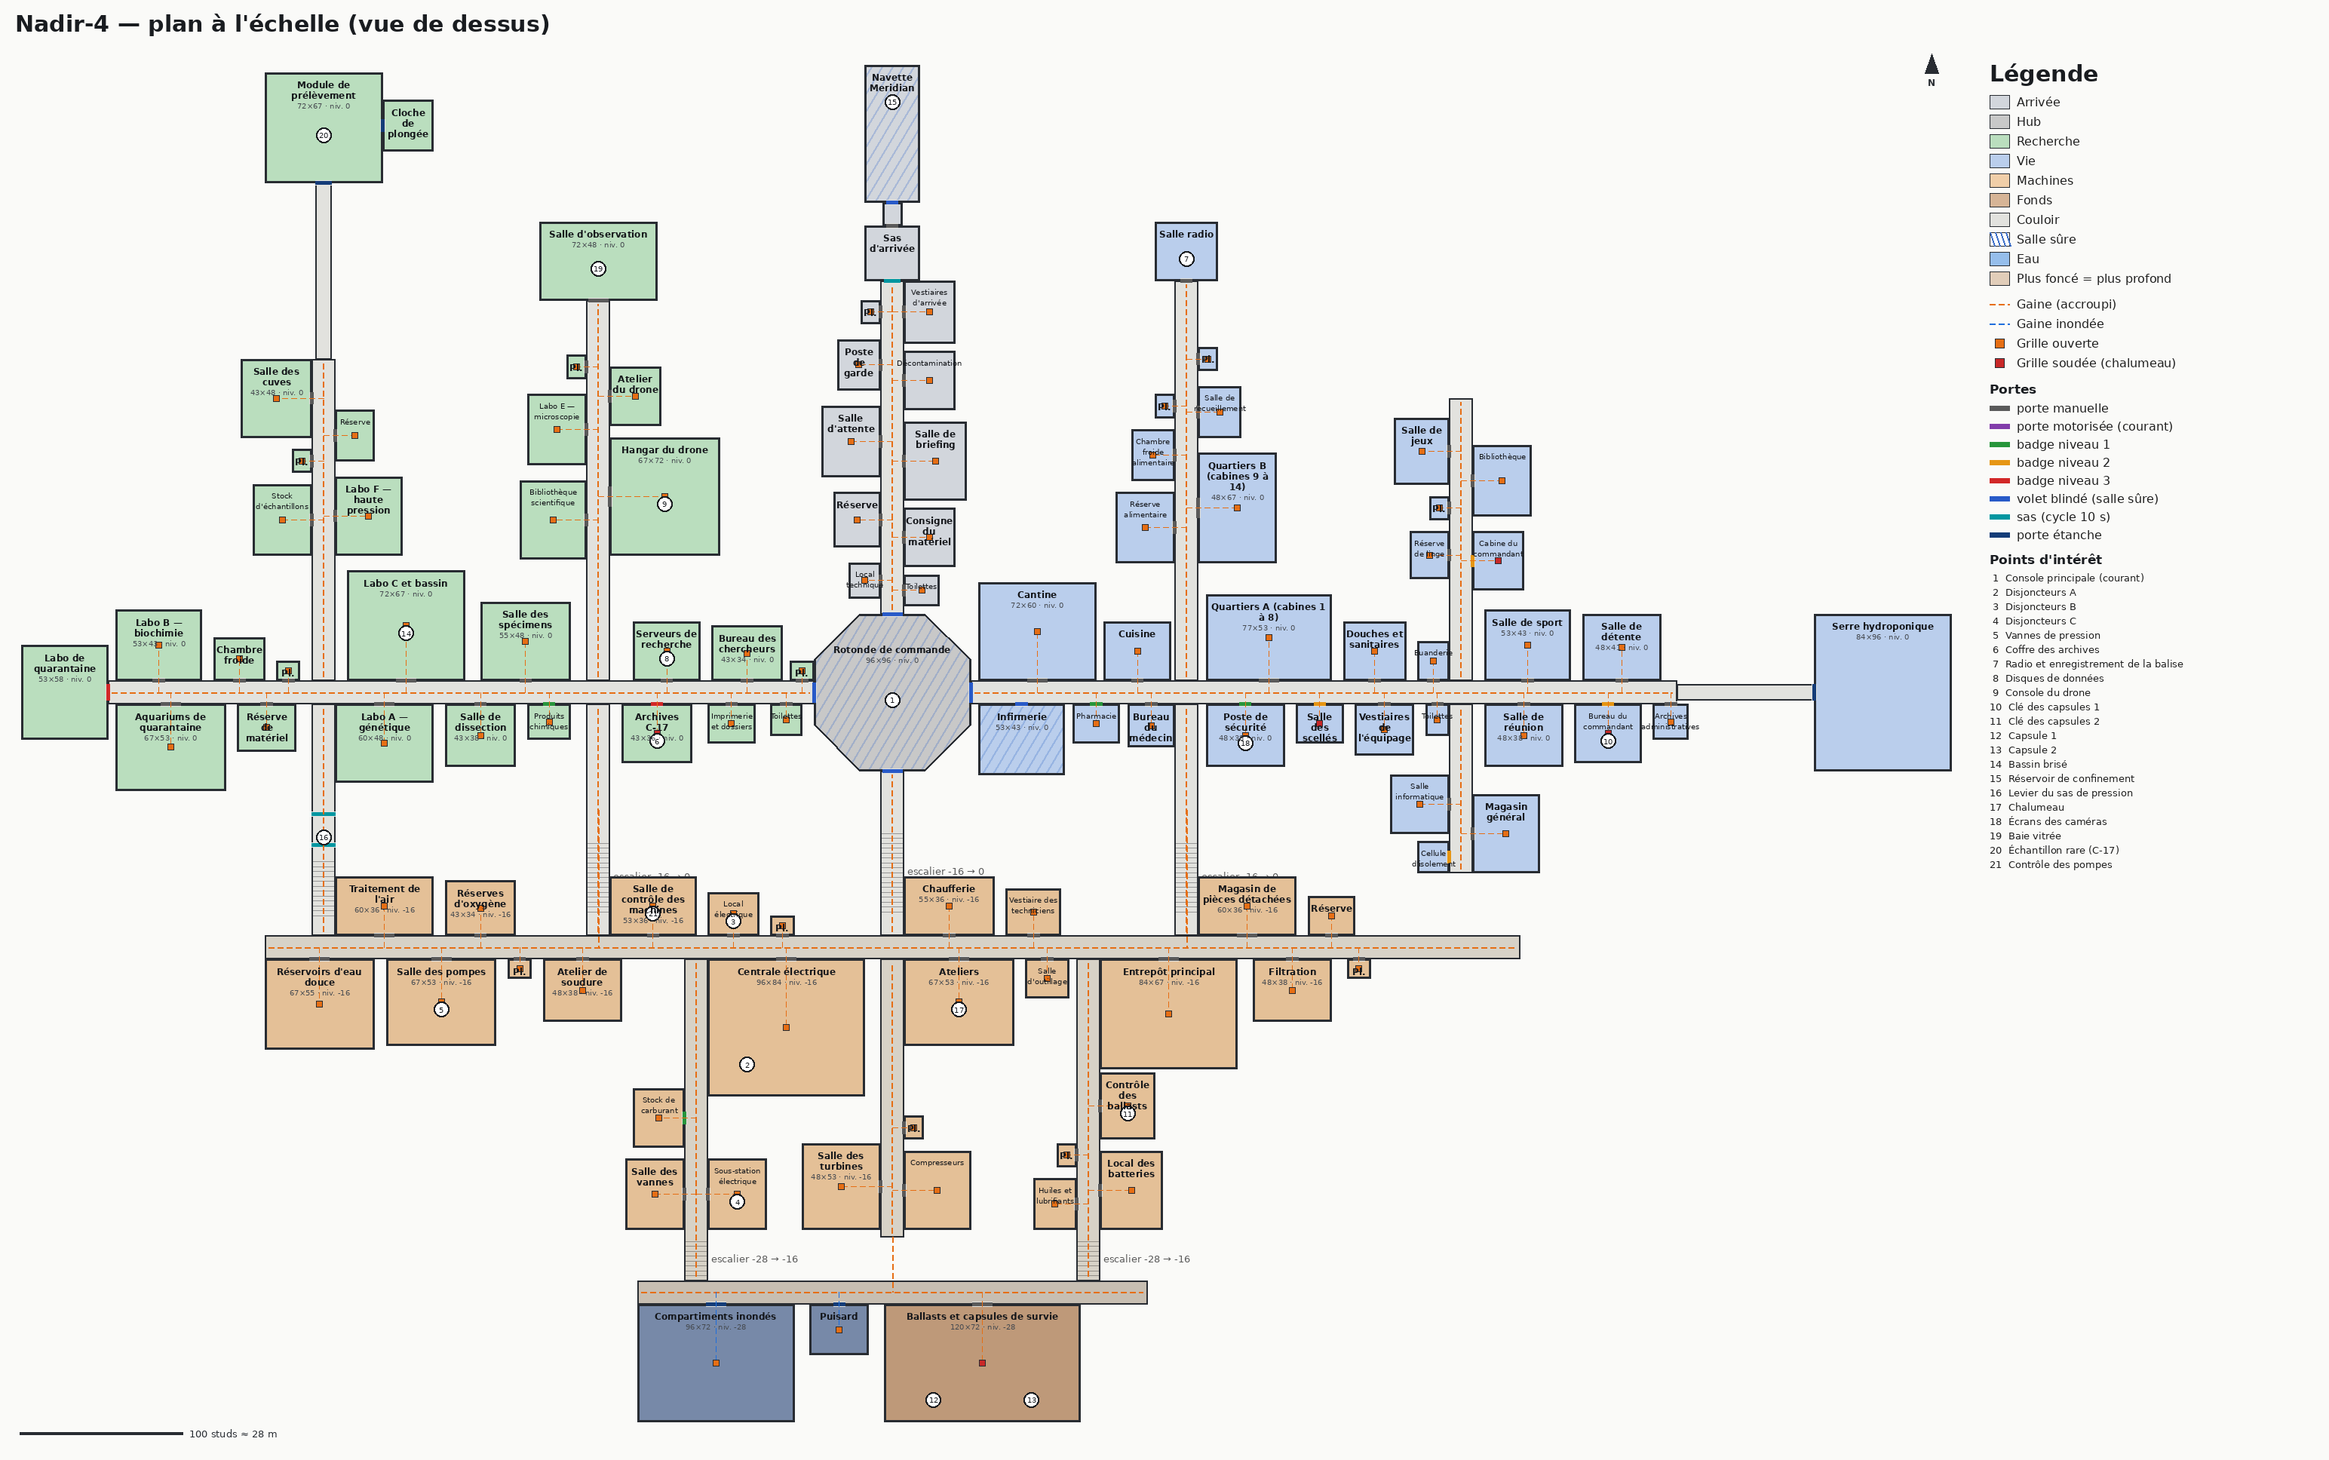
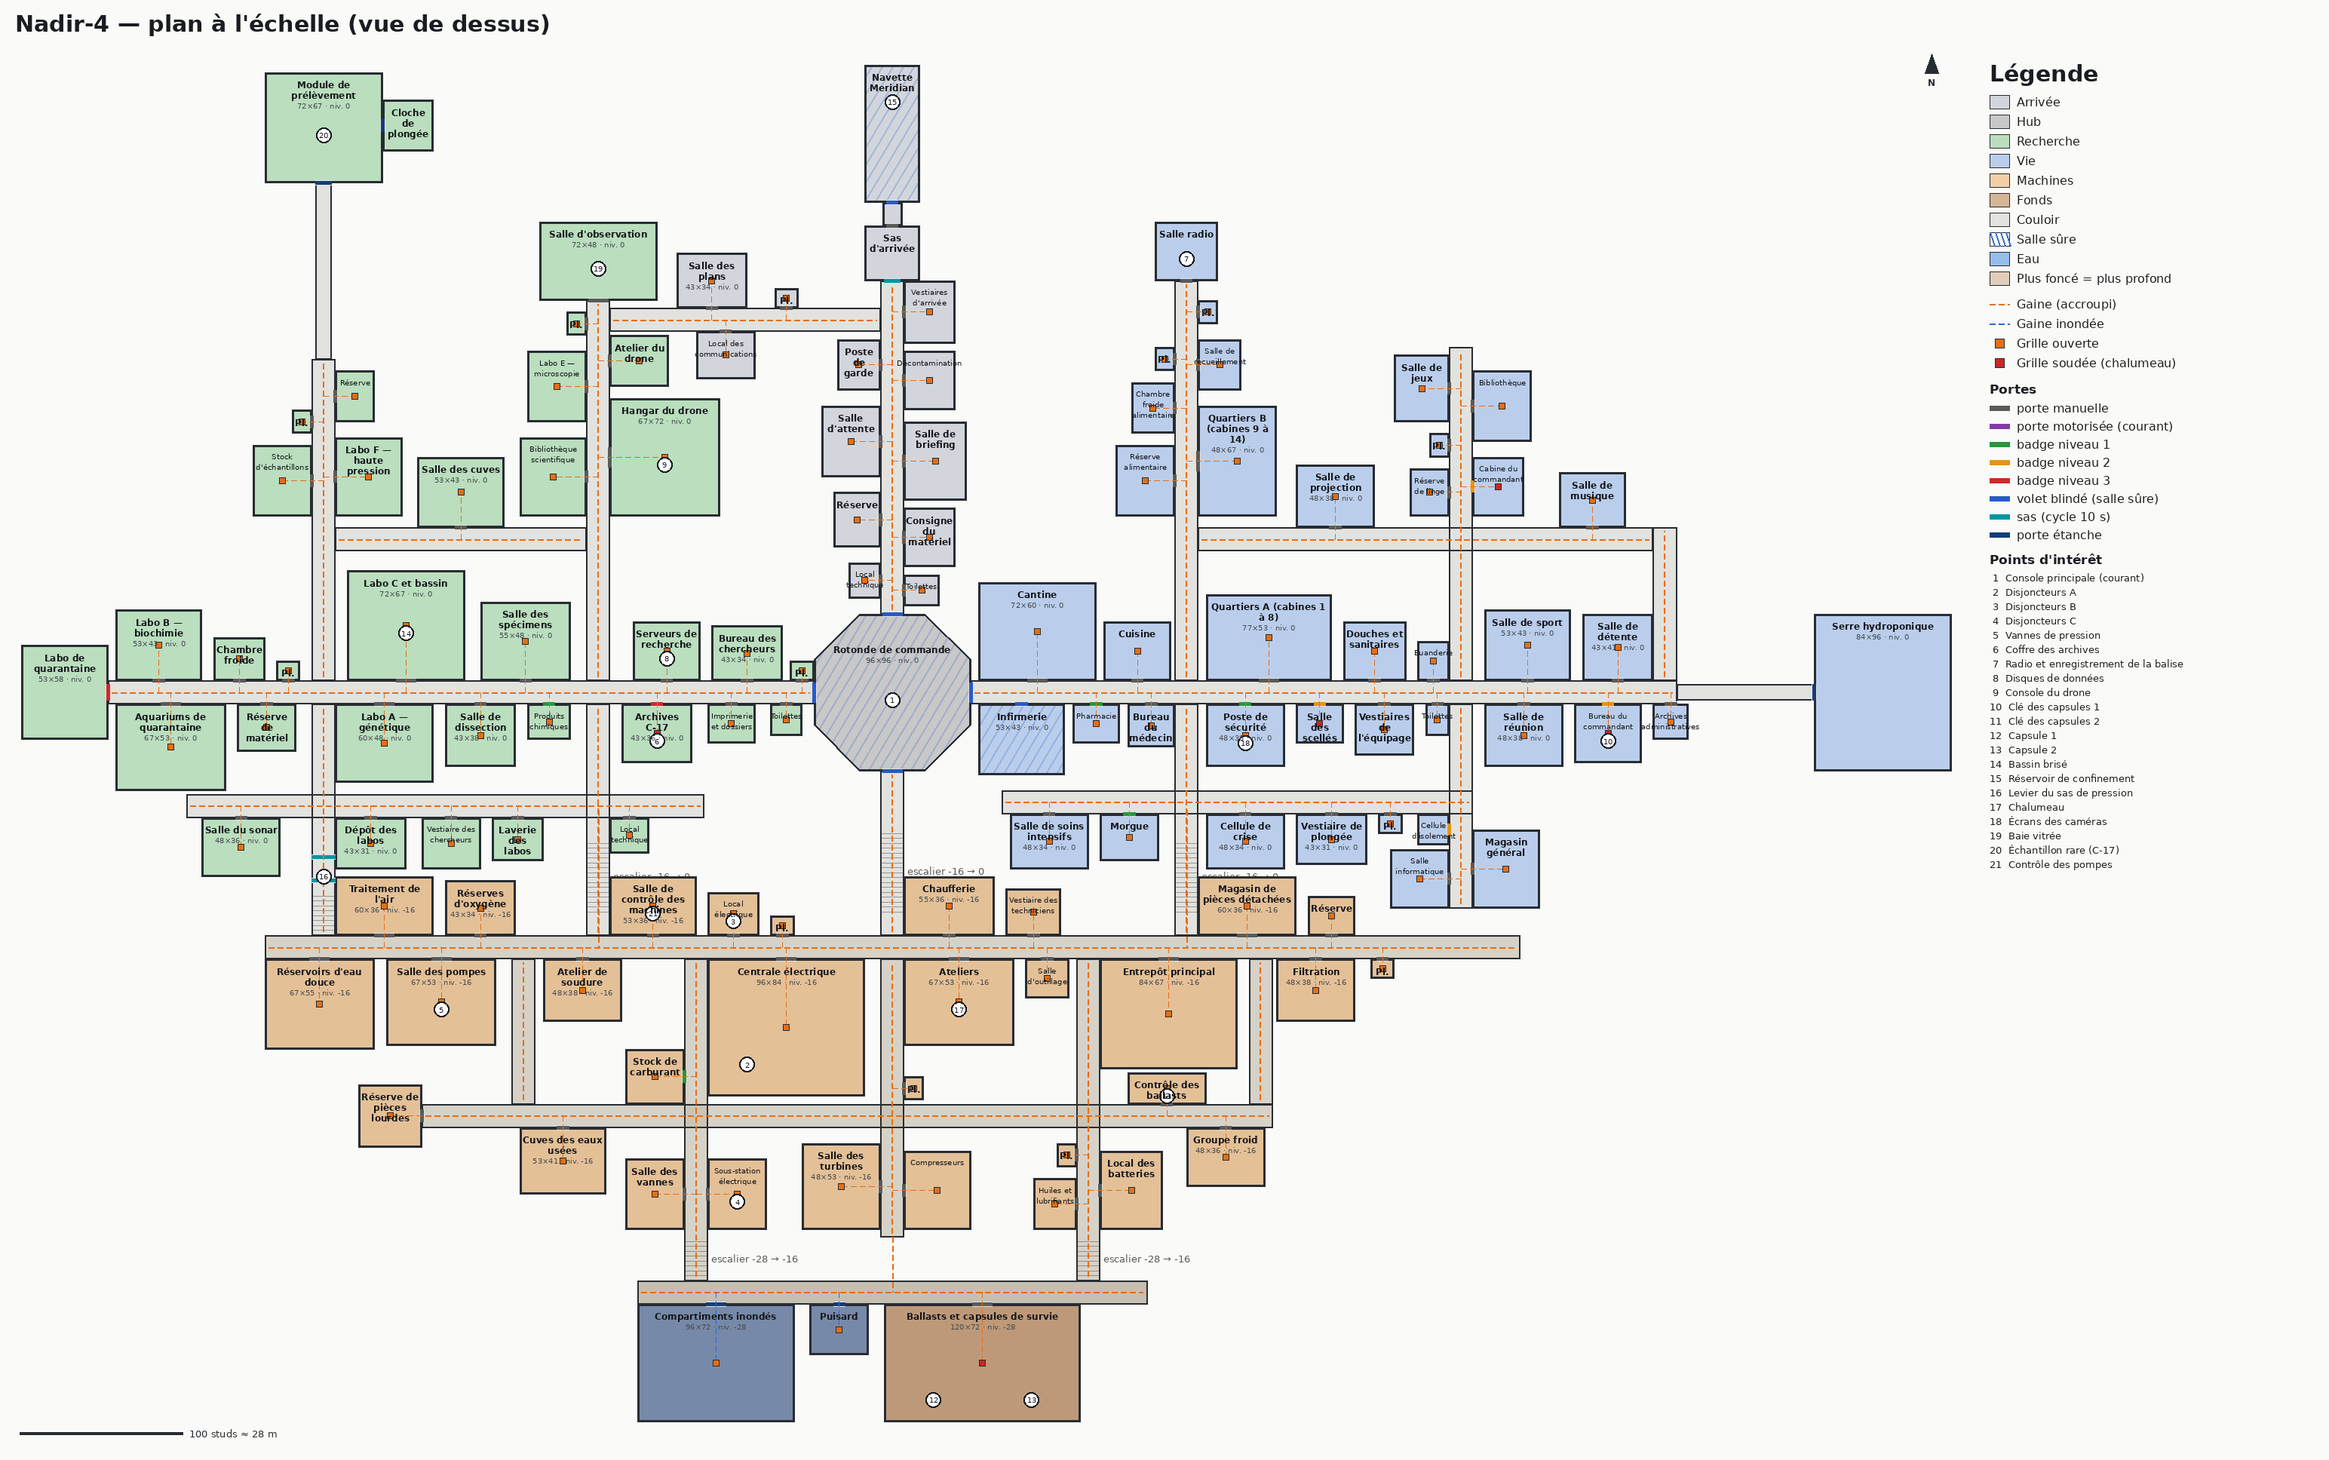
Nadir-4 : couloirs arrière, liaisons et embranchements (boucles dans la Recherche, la Vie et les Machines, liaison arrivée–Recherche, culs-de-sac) ; 125 salles, 28 couloirs
Claude-Session: https://claude.ai/code/session_01RK7Fy6DqpYamBs74MR2BuV

diff --git a/lib/nadir_layout.py b/lib/nadir_layout.py
@@ -65,7 +65,11 @@ aile(c, 'arrivee',
      cote_plus=[4, ('toilettes_n', 'Toilettes', 16, 18), 4, ('consigne', 'Consigne du matériel', 30, 26), 4,
                 ('briefing', 'Salle de briefing', 40, 32), 6, ('decontamination', 'Décontamination', 30, 26), 4, ('vestiaire_arr', "Vestiaires d'arrivée", 32, 26)],
      cote_moins=[8, ('local_tech_n', 'Local technique', 18, 16), 8, ('reserve_n', 'Réserve', 28, 24), 8,
-                 ('attente', "Salle d'attente", 36, 30), 8, ('poste_garde', 'Poste de garde', 26, 22), 8, ('placard_a1', 'Placard', 12, 10)])
+                 ('attente', "Salle d'attente", 36, 30), 8, ('poste_garde', 'Poste de garde', 26, 22)])
+# liaison nord-ouest : de l'arrivée vers la Recherche (embranchement en T sur le couloir nord de la Recherche)
+c = couloir('liaison_no', -144, 184, -6, 196)
+aile(c, 'arrivee', cote_plus=[34, ('salle_plans', 'Salle des plans', 36, 28), 14, ('placard_a1', 'Placard', 12, 10)],
+     cote_moins=[44, ('local_comms', 'Local des communications', 30, 24)])
 
 # ================================================================ HUB
 salle('rotonde', 'Rotonde de commande', 'hub', -40, -40, 40, 40, h=22, forme='octo', sure=True, sans_grille=True, note='console du courant, plan, interphone')
@@ -83,26 +87,34 @@ aile(c, 'recherche',
 salle('quarantaine', 'Labo de quarantaine', 'recherche', -444, -24, -400, 24, h=14, note='porte à badge 3, double vitrage'); porte(-400, 0, 'x', 8, 'badge3')
 c = couloir('c_rech_n1', -156, 6, -144, 200)
 aile(c, 'recherche',
-     cote_plus=[64, ('hangar', 'Hangar du drone', 60, 56, dict(h=18)), 6, ('atelier_drone', 'Atelier du drone', 30, 26)],
-     cote_moins=[62, ('biblio_sci', 'Bibliothèque scientifique', 40, 34), 8, ('labo_e', 'Labo E — microscopie', 36, 30), 8, ('placard_r3', 'Placard', 12, 10)])
+     cote_plus=[84, ('hangar', 'Hangar du drone', 60, 56, dict(h=18)), 6, ('atelier_drone', 'Atelier du drone', 26, 30)],
+     cote_moins=[84, ('biblio_sci', 'Bibliothèque scientifique', 40, 34), 8, ('labo_e', 'Labo E — microscopie', 36, 30), 8, ('placard_r3', 'Placard', 12, 10)])
 salle('observatoire', "Salle d'observation", 'recherche', -180, 200, -120, 240, h=16, note="grande baie vitrée sur l'abîme"); porte(-150, 200, 'z', 10, 'porte')
 c = couloir('c_rech_n2', -296, 6, -284, 170)
 aile(c, 'recherche',
-     cote_plus=[64, ('labo_f', 'Labo F — haute pression', 40, 34), 8, ('reserve_r2', 'Réserve', 26, 20)],
-     cote_moins=[64, ('stock_echant', "Stock d'échantillons", 36, 30), 6, ('placard_r4', 'Placard', 12, 10), 6, ('salle_cuves', 'Salle des cuves', 40, 36)])
+     cote_plus=[84, ('labo_f', 'Labo F — haute pression', 40, 34), 8, ('reserve_r2', 'Réserve', 26, 20)],
+     cote_moins=[84, ('stock_echant', "Stock d'échantillons", 36, 30), 6, ('placard_r4', 'Placard', 12, 10)])
+# couloir arrière nord : boucle entre les deux couloirs nord de la Recherche
+c = couloir('c_rech_bn', -284, 72, -156, 84)
+aile(c, 'recherche', cote_plus=[42, ('salle_cuves', 'Salle des cuves', 44, 36)])
 couloir('tunnel_verre', -294, 170, -286, 260, h=10, verre=True)
 salle('module_prel', 'Module de prélèvement', 'recherche', -320, 260, -260, 316, h=14, note='isolé au bout du tunnel de verre'); porte(-290, 260, 'z', 8, 'etanche')
 salle('cloche', 'Cloche de plongée', 'recherche', -260, 276, -234, 302, h=12, sans_grille=True); porte(-260, 289, 'x', 6, 'etanche')
 couloir('desc_rech', -156, -124, -144, -6, escalier=(-112, -76, -16, 0))
-couloir('desc_pression', -296, -124, -284, -6, escalier=(-114, -86, -16, 0))
-porte(-290, -62, 'z', 12, 'pression'); porte(-290, -78, 'z', 12, 'pression')
+couloir('desc_pression', -296, -124, -284, -6, escalier=(-124, -102, -16, 0))
+porte(-290, -84, 'z', 12, 'pression'); porte(-290, -96, 'z', 12, 'pression')
+# couloir arrière sud : traverse les deux descentes, finit en cul-de-sac des deux côtés
+c = couloir('c_rech_bs', -360, -64, -96, -52)
+aile(c, 'recherche',
+     cote_moins=[8, ('sonar', 'Salle du sonar', 40, 30), 28, ('depot_labo', 'Dépôt des labos', 36, 26), 8, ('vestiaire_r', 'Vestiaire des chercheurs', 30, 26), 6,
+                 ('laverie_labo', 'Laverie des labos', 26, 22), 34, ('local_tech_r', 'Local technique', 20, 18)])
 
 # ================================================================ VIE (est)
 c = couloir('c_vie', 40, -6, 400, 6)
 aile(c, 'vie',
      cote_plus=[4, ('cantine', 'Cantine', 60, 50, dict(h=16)), 4, ('cuisine', 'Cuisine', 34, 30), 2,
                 12, 4, ('quartiers_a', 'Quartiers A (cabines 1 à 8)', 64, 44), 6, ('douches', 'Douches et sanitaires', 32, 30), 6, ('buanderie', 'Buanderie', 16, 20),
-                12, 6, ('sport', 'Salle de sport', 44, 36), 6, ('detente', 'Salle de détente', 40, 34)],
+                12, 6, ('sport', 'Salle de sport', 44, 36), 6, ('detente', 'Salle de détente', 36, 34)],
      cote_moins=[4, ('infirmerie', 'Infirmerie', 44, 36, dict(sure=True, sans_grille=True, porte='volet')), 4, ('pharmacie', 'Pharmacie', 24, 20, dict(porte='badge1')), 4, ('bureau_medecin', 'Bureau du médecin', 24, 22),
                  12, 4, ('securite', 'Poste de sécurité', 40, 32, dict(porte='badge1')), 6, ('scelles', 'Salle des scellés', 24, 20, dict(porte='badge2')), 6, ('vestiaire_v', "Vestiaires de l'équipage", 30, 26), 6, ('toilettes_v', 'Toilettes', 12, 16),
                  12, 6, ('reunion', 'Salle de réunion', 40, 32), 6, ('bureau', 'Bureau du commandant', 34, 30, dict(porte='badge2')), 6, ('archives_adm', 'Archives administratives', 18, 18)])
@@ -110,18 +122,26 @@ couloir('tunnel_serre', 400, -4, 470, 4, h=10, verre=True)
 salle('serre', 'Serre hydroponique', 'vie', 470, -40, 540, 40, h=18, note='bacs de culture, lampes violettes'); porte(470, 0, 'x', 8, 'etanche')
 c = couloir('c_vie_n1', 144, 6, 156, 210)
 aile(c, 'vie',
-     cote_plus=[60, ('quartiers_b', 'Quartiers B (cabines 9 à 14)', 56, 40), 8, ('recueillement', 'Salle de recueillement', 26, 22), 8, ('placard_v1', 'Placard', 12, 10)],
-     cote_moins=[60, ('reserve_alim', 'Réserve alimentaire', 36, 30), 6, ('chambre_froide_v', 'Chambre froide alimentaire', 26, 22), 6, ('placard_v2', 'Placard', 12, 10)])
+     cote_plus=[84, ('quartiers_b', 'Quartiers B (cabines 9 à 14)', 56, 40), 8, ('recueillement', 'Salle de recueillement', 26, 22), 8, ('placard_v1', 'Placard', 12, 10)],
+     cote_moins=[84, ('reserve_alim', 'Réserve alimentaire', 36, 30), 6, ('chambre_froide_v', 'Chambre froide alimentaire', 26, 22), 6, ('placard_v2', 'Placard', 12, 10)])
 salle('radio', 'Salle radio', 'vie', 134, 210, 166, 240, h=12, note='cul-de-sac'); porte(150, 210, 'z', 6, 'porte')
-c = couloir('c_vie_n2', 284, 6, 296, 150)
+c = couloir('c_vie_n2', 284, 6, 296, 176)
 aile(c, 'vie',
-     cote_plus=[46, ('cabine_cdt', 'Cabine du commandant', 30, 26, dict(porte='badge2')), 8, ('bibliotheque', 'Bibliothèque', 36, 30)],
-     cote_moins=[52, ('linge', 'Réserve de linge', 24, 20), 6, ('placard_v3', 'Placard', 12, 10), 6, ('salle_jeux', 'Salle de jeux', 34, 28)])
+     cote_plus=[84, ('cabine_cdt', 'Cabine du commandant', 30, 26, dict(porte='badge2')), 8, ('bibliotheque', 'Bibliothèque', 36, 30)],
+     cote_moins=[84, ('linge', 'Réserve de linge', 24, 20), 6, ('placard_v3', 'Placard', 12, 10), 6, ('salle_jeux', 'Salle de jeux', 34, 28)])
+# couloir arrière nord de la Vie (en L) : relie les deux couloirs nord et revient sur le couloir principal à l'est
+c = couloir('c_vie_bn', 156, 72, 388, 84)
+aile(c, 'vie', cote_plus=[50, ('projection', 'Salle de projection', 40, 32), 94, ('musique', 'Salle de musique', 34, 28)])
+couloir('c_vie_coude', 388, 6, 400, 84)
 couloir('desc_vie', 144, -124, 156, -6, escalier=(-112, -76, -16, 0))
-c = couloir('c_vie_s2', 284, -92, 296, -6)
+# couloir arrière sud de la Vie : croise la descente et rejoint le couloir sud-est
+c = couloir('c_vie_bs', 56, -62, 296, -50)
+aile(c, 'vie', cote_moins=[4, ('soins', 'Salle de soins intensifs', 40, 28), 6, ('morgue', 'Morgue', 30, 24, dict(porte='badge1')), 24,
+                           ('crise', 'Cellule de crise', 40, 28), 6, ('vestiaire_plongee', 'Vestiaire de plongée', 36, 26), 6, ('placard_v4', 'Placard', 12, 10)])
+c = couloir('c_vie_s2', 284, -110, 296, -6)
 aile(c, 'vie',
      cote_plus=[0, ('magasin', 'Magasin général', 40, 34)],
-     cote_moins=[0, ('cellule', "Cellule d'isolement", 16, 16, dict(porte='badge2', sans_grille=True)), 4, ('salle_info', 'Salle informatique', 30, 30)])
+     cote_moins=[0, ('salle_info', 'Salle informatique', 30, 30), 2, ('cellule', "Cellule d'isolement", 16, 16, dict(porte='badge2', sans_grille=True))])
 
 # ================================================================ HUB → MACHINES
 couloir('desc_sud', -6, -124, 6, -40, escalier=(-112, -70, -16, 0))
@@ -134,19 +154,26 @@ aile(c, 'machines',
                 6, ('controle_m', 'Salle de contrôle des machines', 44, 30), 6, ('local_elec', 'Local électrique', 26, 22), 6, ('placard_m1', 'Placard', 12, 10), 56,
                 ('chaufferie', 'Chaufferie', 46, 30), 6, ('vestiaire_m', 'Vestiaire des techniciens', 28, 24), 70,
                 ('pieces', 'Magasin de pièces détachées', 50, 30), 6, ('reserve_m', 'Réserve', 24, 20)],
-     cote_moins=[('reservoirs_eau', "Réservoirs d'eau douce", 56, 46), 6, ('pompes', 'Salle des pompes', 56, 44), 6, ('placard_m2', 'Placard', 12, 10), 6,
+     cote_moins=[('reservoirs_eau', "Réservoirs d'eau douce", 56, 46), 6, ('pompes', 'Salle des pompes', 56, 44), 24,
                  ('soudure', 'Atelier de soudure', 40, 32), 44,
                  ('centrale', 'Centrale électrique', 80, 70, dict(h=26)), 20,
                  ('ateliers', 'Ateliers', 56, 44), 6, ('outillage', "Salle d'outillage", 22, 20), 16,
-                 ('entrepot', 'Entrepôt principal', 70, 56, dict(h=18)), 8, ('filtration', 'Filtration', 40, 32), 8, ('placard_m3', 'Placard', 12, 10)])
+                 ('entrepot', 'Entrepôt principal', 70, 56, dict(h=18)), 20, ('filtration', 'Filtration', 40, 32), 8, ('placard_m3', 'Placard', 12, 10)])
+# deux liaisons et un couloir transversal : un second circuit sous les machines
+couloir('c_mach_lo', -194, -210, -182, -136, elev=E)
+couloir('c_mach_le', 182, -210, 194, -136, elev=E)
+c = couloir('c_mach_x', -240, -222, 194, -210, elev=E)
+aile(c, 'machines', cote_plus=[360, ('controle_ballasts', 'Contrôle des ballasts', 40, 16)],
+     cote_moins=[50, ('eaux_usees', 'Cuves des eaux usées', 44, 34), 296, ('groupe_froid', 'Groupe froid', 40, 30)])
+salle('reserve_m2', 'Réserve de pièces lourdes', 'machines', -272, -232, -240, -200, elev=E, h=12, couloir='c_mach_x'); porte(-240, -216, 'x', 6, 'porte')
 c = couloir('c_mach_o', -106, -300, -94, -136, elev=E, escalier=(-300, -278, -28, -16))
 aile(c, 'machines', cote_plus=[26, ('sous_station', 'Sous-station électrique', 36, 30)],
-     cote_moins=[26, ('vannes', 'Salle des vannes', 36, 30), 6, ('carburant', 'Stock de carburant', 30, 26, dict(porte='badge1'))])
+     cote_moins=[26, ('vannes', 'Salle des vannes', 36, 30), 28, ('carburant', 'Stock de carburant', 28, 30, dict(porte='badge1'))])
 c = couloir('c_mach_c', -6, -278, 6, -136, elev=E)
-aile(c, 'machines', cote_plus=[4, ('compresseurs', 'Compresseurs', 40, 34), 6, ('placard_m4', 'Placard', 12, 10)],
+aile(c, 'machines', cote_plus=[4, ('compresseurs', 'Compresseurs', 40, 34), 26, ('placard_m4', 'Placard', 12, 10)],
      cote_moins=[4, ('turbines', 'Salle des turbines', 44, 40, dict(h=18))])
 c = couloir('c_mach_e', 94, -300, 106, -136, elev=E, escalier=(-300, -278, -28, -16))
-aile(c, 'machines', cote_plus=[26, ('batteries', 'Local des batteries', 40, 32), 6, ('controle_ballasts', 'Contrôle des ballasts', 34, 28)],
+aile(c, 'machines', cote_plus=[26, ('batteries', 'Local des batteries', 40, 32)],
      cote_moins=[26, ('huiles', 'Huiles et lubrifiants', 26, 22), 6, ('placard_m5', 'Placard', 12, 10)])
 
 # ================================================================ FONDS (niveau -28)
@@ -169,7 +196,9 @@ for s in SALLES:
     if s.get('sans_grille') or 'couloir' not in s: continue
     c = next(c for c in COULOIRS if c['id'] == s['couloir'])
     x0, z0, x1, z1 = s['rect']; cx0, cz0, cx1, cz1 = c['rect']; mx, mz = (x0 + x1)/2, (z0 + z1)/2
-    if (cx1 - cx0) >= (cz1 - cz0): a = (mx, (cz0 + cz1)/2); b = (mx, mz)
+    horiz = (cx1 - cx0) >= (cz1 - cz0)
+    if horiz and not (cx0 <= mx <= cx1): horiz = False; a = (cx0 if mx < cx0 else cx1, (cz0 + cz1)/2); b = (mx, (cz0 + cz1)/2)   # salle au bout du couloir
+    elif horiz: a = (mx, (cz0 + cz1)/2); b = (mx, mz)
     else: a = ((cx0 + cx1)/2, mz); b = (mx, mz)
     GAINES.append(dict(id='b_' + s['id'], pts=[a, b], elev=s['elev'], branche=True, inonde=bool(s.get('eau'))))
     GRILLES.append((b[0], b[1], s['id'], s['id'] in SOUDEES))
@@ -195,7 +224,7 @@ def _centre(id):
     return None
 POINTS = []
 for sid, dx, dz, k, nom in _P:
-    c = _centre(sid) if sid != 'c_rech' else (-290, -70)
+    c = _centre(sid) if sid != 'c_rech' else (-290, -90)
     POINTS.append((c[0] + dx, c[1] + dz, k, nom))
 
 def studs(v): return v*S

diff --git a/notes/plan_nadir.py b/notes/plan_nadir.py
@@ -74,7 +74,7 @@ for x, z, mur, w, t in N.PORTES:
         else: d.rectangle([(a[0], a[1] - 2), (b[0], b[1] + 2)], fill=PCOL[t])
 # gaines
 def dashed(p, q, col, w=2, dash=7, gap=5):
-    (x0, y0), (x1, y1) = p, q; L = math.hypot(x1 - x0, y1 - y0); n = int(L/(dash + gap)) + 1
+    (x0, y0), (x1, y1) = p, q; L = max(math.hypot(x1 - x0, y1 - y0), 1e-6); n = int(L/(dash + gap)) + 1
     for k in range(n):
         t0 = k*(dash + gap)/L; t1 = min(1, (k*(dash + gap) + dash)/L)
         if t0 >= 1: break
